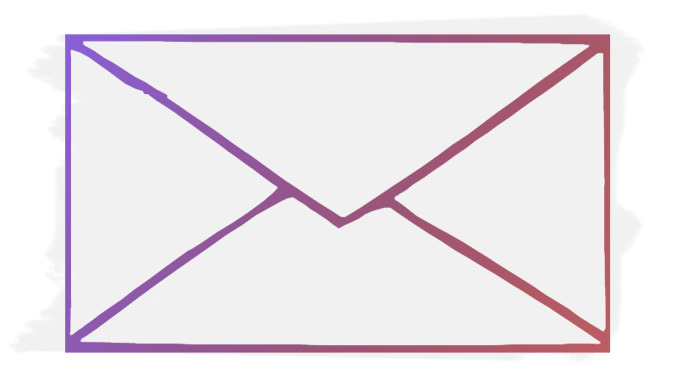
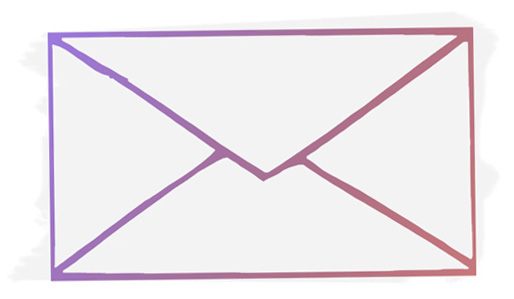
random stylesheet adjustments

Changed region(s): [[0.0934, 0.0602, 0.9339, 0.9632]]

diff --git a/css/main.css b/css/main.css
@@ -95,13 +95,13 @@ section {
   .say-hello img {
     display: block;
     width: 100%;
-    max-width: 700px;
+    max-width: 500px;
     margin: 0 auto; }
   .say-hello p {
     font-size: 28px;
     line-height: 38px;
     max-width: 800px;
-    margin: 30px auto 0 auto; }
+    margin: 60px auto 0 auto; }
   .say-hello a {
     color: #d7431c;
     -webkit-transition: color 1s cubic-bezier(0.19, 1, 0.22, 1);

diff --git a/sass/_globals.scss b/sass/_globals.scss
@@ -100,14 +100,14 @@ section{
 	img{
 		display:block;
 		width:100%;
-		max-width:700px;
+		max-width:500px;
 		margin:0 auto;
 	}
 	p{
 		font-size: 28px;
 		line-height:38px;
 		max-width:800px;
-		margin:30px auto 0 auto;
+		margin:60px auto 0 auto;
 	}
 	a{
 		color:$yellow;
